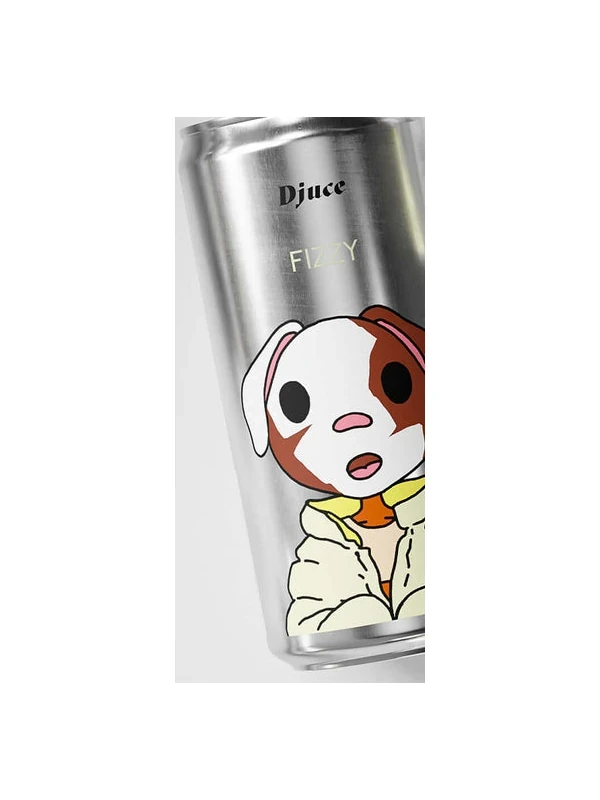
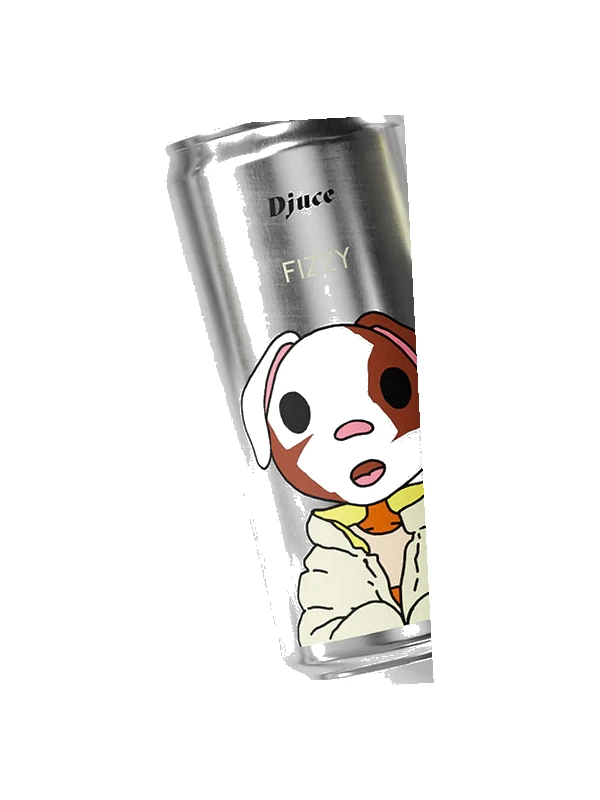
Dölj 'Foto på väg'-platshållaren bakom laddade bilder + räta upp Djuce-burken (#36)
Platshållaren var absolut-positionerad ovanpå bilden och syntes framför alla flaskor;
visas nu bara när en bild saknas (:has(img)).

Changed region(s): [[0.27, 0.125, 0.72, 0.875], [0.3, 0.8438, 0.33, 0.875]]

diff --git a/index.html b/index.html
@@ -80,7 +80,9 @@
   @media(prefers-reduced-motion:reduce){.kort{animation:none;opacity:1;transform:none}}
   .kort .bild{aspect-ratio:3/4;background:
     linear-gradient(135deg,var(--dammig),#fff);position:relative;overflow:hidden}
-  .kort .bild img{width:100%;height:100%;object-fit:cover;display:block}
+  .kort .bild img{width:100%;height:100%;object-fit:cover;display:block;position:relative;z-index:1}
+  /* Platshållaren visas bara när ingen bild finns (bilden tas bort vid fel) */
+  .kort .bild:has(img) .platsh{display:none}
   .kort .bild .platsh{position:absolute;inset:0;display:flex;align-items:center;
     justify-content:center;flex-direction:column;gap:.4rem;color:var(--vin);
     font-family:var(--sans);text-align:center;padding:1rem}
